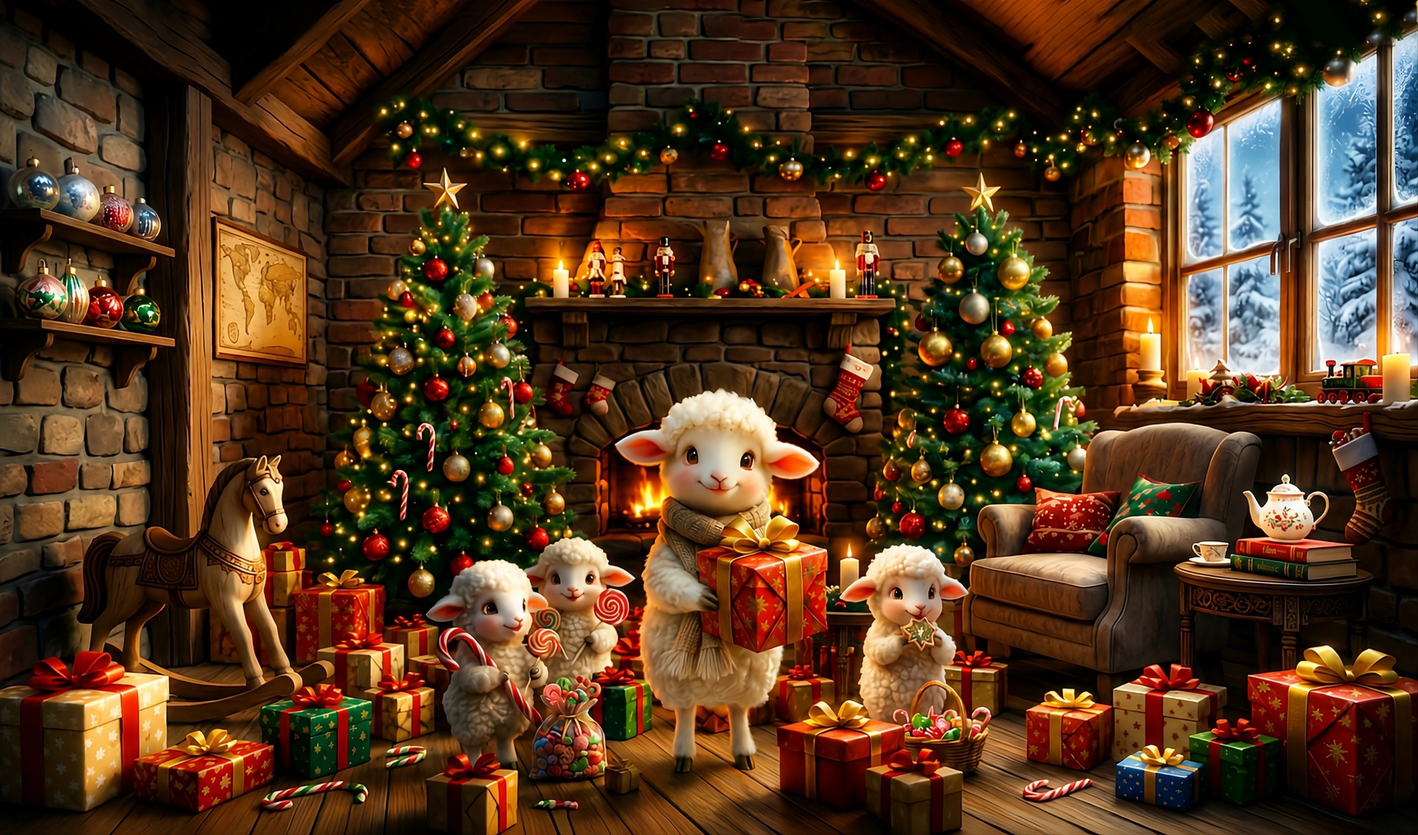
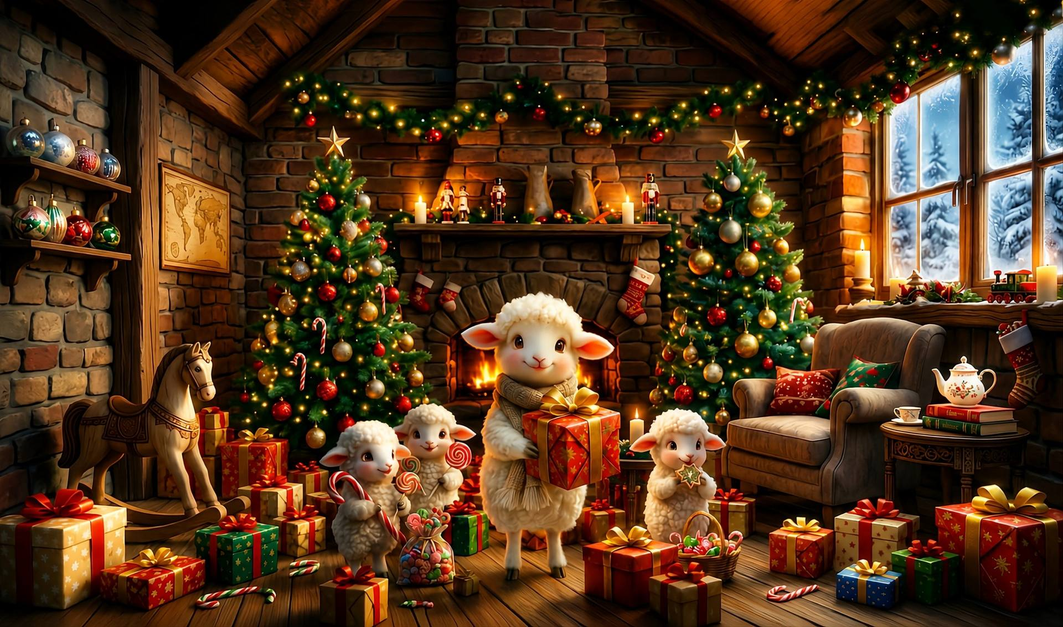
task135: производительность витрины + починка прелоадера на медленной сети — фон блока и hero пережаты в webp (1,9МБ+623КБ+внешний KAM_023 719КБ → 119+239+85КБ, −86% главных ассетов), мок «Тубы» локализован (public/brand); SmartImage.startVisible + fetchPriority=high + preload для LCP-hero (рисунок 

diff --git a/src/components/admin/SettingsForm.tsx b/src/components/admin/SettingsForm.tsx
@@ -619,7 +619,7 @@ export function SettingsForm({ initial }: Props) {
             <div className="h-24 w-40 shrink-0 overflow-hidden rounded-lg border border-[var(--color-border)] bg-[var(--color-bg-soft)]">
               {/* eslint-disable-next-line @next/next/no-img-element */}
               <img
-                src={form.hero_image || "/hero-bg.jpg"}
+                src={form.hero_image || "/hero-bg.webp"}
                 alt="Текущий фон hero"
                 className="h-full w-full object-cover"
               />
@@ -649,7 +649,7 @@ export function SettingsForm({ initial }: Props) {
                 placeholder="/uploads/hero/... или https://..."
               />
               <p className="text-xs text-[var(--color-muted)]">
-                Пусто = картинка по умолчанию (/hero-bg.jpg). Картинка сжимается перед загрузкой автоматически.
+                Пусто = картинка по умолчанию (/hero-bg.webp). Картинка сжимается перед загрузкой автоматически.
                 На сайте появится после обновления главной страницы (F5) — пересборка сайта не нужна.
               </p>
             </div>

diff --git a/src/components/ui/SmartImg.tsx b/src/components/ui/SmartImg.tsx
@@ -46,15 +46,20 @@ type SmartImageProps = Omit<ImageProps, "onLoad" | "onError"> & {
   /** Доп. классы на скелетоне (например скругление) */
   skeletonClassName?: string;
   onLoad?: () => void;
+  /** LCP-картинка: без скелетона и с opacity-100 уже в SSR-разметке —
+   * браузер рисует её, как только пришли байты, не дожидаясь
+   * гидратации (иначе на мобиле LCP откладывается на секунды). */
+  startVisible?: boolean;
 };
 
 export function SmartImage({
   skeletonClassName = "",
   onLoad,
   className,
+  startVisible = false,
   ...rest
 }: SmartImageProps) {
-  const [loaded, setLoaded] = useState(false);
+  const [loaded, setLoaded] = useState(startVisible);
   const [failed, setFailed] = useState(false);
   const imgRef = useRef<HTMLImageElement | null>(null);
   /* Task 116: текущий src может заменяться на сиблинга с другим

diff --git a/src/lib/mock-data.ts b/src/lib/mock-data.ts
@@ -213,7 +213,7 @@ export const mockCategories: Category[] = [
   { slug: "karton",    name: "Картон",      imageUrl: wpu("LA_035.png") },
   { slug: "meshochki", name: "Мешочки",     imageUrl: wpu("KA_101.png") },
   { slug: "tekstil",   name: "Текстиль",    imageUrl: wpu("KA_020.png") },
-  { slug: "tuby",      name: "Тубы",        imageUrl: wpu("KAM_023.png") },
+  { slug: "tuby",      name: "Тубы",        imageUrl: "/brand/tuby.webp" },
 ];
 
 /* -------------------------------------------------- */

diff --git a/src/lib/settings.ts b/src/lib/settings.ts
@@ -44,7 +44,7 @@ export interface ShopFrontSettings {
    компонентами — Hero подтягивает свежий конфиг на статическом сайте). */
 
 export const DEFAULT_FRONT_SETTINGS: ShopFrontSettings = {
-  hero_image: "/hero-bg.jpg",
+  hero_image: "/hero-bg.webp",
   hero_slider_enabled: false,
   hero_slides: [],
   product_card_template: "new",

diff --git a/src/components/home/Hero.tsx b/src/components/home/Hero.tsx
@@ -130,6 +130,8 @@ export function Hero({ image, slides, slider, snow }: HeroProps) {
             alt=""
             fill
             priority={i === 0}
+            fetchPriority={i === 0 ? "high" : "auto"}
+            startVisible={i === 0}
             sizes="100vw"
             className="object-cover"
             skeletonClassName="bg-[#1d2430]"

diff --git a/src/components/home/ProcessSteps.tsx b/src/components/home/ProcessSteps.tsx
@@ -138,7 +138,7 @@ export function ProcessSteps() {
         className="absolute inset-x-0 -top-20 -bottom-20 will-change-transform"
       >
         <SmartImage
-          src="/uploads/process-bg.png"
+          src="/brand/process-bg.webp"
           alt=""
           fill
           sizes="100vw"

diff --git a/backend/src/SystemFiles.php b/backend/src/SystemFiles.php
@@ -25,7 +25,7 @@ class SystemFiles
         'ico-step1.svg',             // ProcessSteps.tsx — блок «Как мы работаем»
         'ico-step2.svg',
         'ico-step3.svg',
-        'process-bg.png',            // ProcessSteps.tsx — фон блока
+        'process-bg.png',            // ProcessSteps.tsx — фон блока (легаси; актуальный — /brand/process-bg.webp)
     ];
 
     /** Файл витрины, на который ссылается код (rel — путь внутри uploads/) */

diff --git a/worklog.md b/worklog.md
@@ -2102,3 +2102,18 @@ Stage Summary:
 - В карточке каждого визита видно, ПОЧЕМУ он признан ботом — какой признак сработал. Владелец решает: блокировать IP или разбираться. Защитные лимиты и блок-лист из Task 133 работают как раньше.
 
 ПУБЛИКАЦИЯ РЕЛИЗА: ПУШ master УСПЕШЕН 7a19c4e..6dfd3d8. СБОРКА MODE=both → v2026.11.03-0212: lakomka-deploy-static.zip 110 МБ, lakomka-update-2026.11.03-0212.zip 15 995 753 б (sha256 ab5f819f3844f46fa474fd311e29deb94e885f26112e6f86f780ab36ea962536); в пакете: VisitGuard.php с botScore, миграция 007, AdminAnalyticsController, чанки с «Подозрением» и блоком отпечатка, трекер с env/sig. Досборка MODE=media → lakomka-media-2026.11.03-0212.zip 94 МБ — ЛОКАЛЬНО для регресса, в релиз НЕ публиковался (медиа не менялись, у сайтов актуален 0754). E2E task133 24/24 на стенде :8090 — headless-браузер в модалке визита показал «webdriver: да». gh-release.sh: тег v2026.11.03-0212 создан (updates/…zip в дереве), релиз id=432204546 с заметками release/notes-2026.11.03-0212.md. ВЕРИФИКАЦИЯ канала /update: ranged GET с -L → HTTP 206, 1024 б; полное скачивание → 15 995 753 б = локальному; sha256 байт-в-байт ab5f819f…2536; releases/latest → v2026.11.03-0212, draft=false, prerelease=false. Медиа-архив не выпускался. Владельцу: применить обновление (/update → «Проверить обновления (ГИТ)» → применить) — приедет бот-детект v2. После обновления ПРОВЕРИТЬ ГЛАВНОЕ: попросить DeepSeek снова зайти на fixme.org.ru → в «Аналитике» его визит должен прийти ботом с пометкой «(отпечаток)», в карточке визита — строка отпечатка с webdriver: да; свои визиты из обычного браузера остаются «Человек».
+
+---
+Task ID: 135
+Agent: main (Z.ai)
+Task: «так же у нас сломался прелоадер со смешными фразами» + Lighthouse: мобайл LCP 16,7 c / SI 9,0 c, сеть 6103 КиБ (process-bg.png 1889 КиБ, hero-bg.jpg 623 КиБ, KAM_023.png 719 КиБ с lakomkakhv.ru), кэш статики без TTL, «прими меры на производительность».
+
+Work Log:
+- ДИАГНОЗ ПРЕЛОАДЕРА: код RoutePreloader цел (битые «aref]»/«supports-eight» в выводе инструментов — артефакт отображения, байты файлов корректны: a[href], supports-[height]). Воспроизведение Playwright (Slow 4G 1,6 Мбит/с, RTT 150мс, CPU×4, мобайл-вьюпорт) на статическом экспорте: клик по ссылке при ещё грузящихся тяжёлых картинках → RSC-запрос навигации (/catalog/index.txt, 776 КиБ text/plain без gzip) застревает за 2,5 МБ изображений → Next срывается на ПОЛНУЮ перезагрузку → контекст умирает, прелоадер мигает и пропадает, страница грузится заново. На быстрой сети всё работает — поэтому в dev дефект не виден. Лечение = разгрузка страницы (см. ниже): после неё тот же тест даёт оверлей VISIBLE все 8 с навигации с ротацией фраз, завершение клиентской навигацией, 0 полных перезагрузок.
+- КАРТИНКИ: process-bg.png 1 933 451 Б → public/brand/process-bg.webp 121 658 Б (−94%, q82); hero-bg.jpg 2560×1509 637 085 Б → пережат на месте (то же имя, DB-безопасно) до 1920w 341 944 Б (−46%) + public/hero-bg.webp 245 092 Б (−62%) как новый дефолт (settings.ts, превью/подпись в SettingsForm); мок «Тубы» KAM_023.png 736 177 Б (внешний lakomkakhv.ru) → public/brand/tuby.webp 84 640 Б (−88%, альфа сохранена) — грузился на главной для категорий без товаров. Легаси /uploads/process-bg.png удалён из репо (на проде копия остаётся, обновления не удаляют файлы; SystemFiles::REFERRED хранит защиту). Итог по главным ассетам: 3 306 713 → 451 390 Б (−2,72 МиБ, −86%).
+- LCP: SmartImage новый проп startVisible (LCP-картинка без скелетона, opacity-100 уже в SSR-разметке — браузер рисует по приходу байтов, не дожидаясь гидратации); Hero: startVisible+fetchPriority=high для первого слайда; в экспорте проверены <link rel=preload as=image href="/hero-bg.webp"> и fetchPriority="high" на <img>.
+- КЭШ (.htaccess): Lighthouse «период хранения кеша» — на проде mod_expires РАБОТАЕТ, но .js отдаётся как text/javascript (правило было только для application/javascript) → чанки без TTL; шрифты font/otf|ttf|woff|woff2 (+application/*) — правила отсутствовали. Добавлены: text/javascript 1 год, шрифты 1 мес, svg/ico/gif 1 мес; страховка mod_headers (FilesMatch: css|js 1 год immutable, изображения/видео/шрифты 1 мес, html no-cache must-revalidate — защита от эвристики при отсутствии mod_expires); DEFLATE + text/plain — RSC *.txt (776 КиБ → ~120-150 КиБ на проде).
+- СЕКРЕТ ПЕСОЧНИЦЫ (не в код): config.local.php был с random_bytes() на каждый запрос → JWT-секрет плавал → «Token invalid» в тестах; перегенерирован с литеральными значениями.
+- ТЕСТЫ: регресс 134:52, 133:71, 132:46, 131:43, 130:50, 121:72, 122:54, 120:27, 118:35, 117:46, 116:38, 112:21(+110:10) — все зелёные; security-audit-auth чист; tsc 0. E2E-браузер: статика :8090 — hero webp в DOM, /brand/*.webp на месте, ошибки консоли 0; троттлинг-тест прелоадера — VISIBLE → навигация → скрытие.
+Stage Summary:
+- Прелоадер со смешными фразами починен разгрузкой страниц: на медленной сети навигация больше не срывается в полную перезагрузку — оверлей с фразами живёт до конца клиентского перехода. Главная полегчала на ~2,7 МиБ (−86% по главным ассетам): фон блока «Как мы работаем» и hero пережаты в webp, внешний PNG «Туб» заменён локальным. LCP-картинка рисуется без ожидания гидратации (startVisible + fetchPriority=high + preload). Кэш: JS-чанки — 1 год (text/javascript!), шрифты/медиа — месяц, HTML — всегда свежий; RSC-полезные нагрузки сжаты DEFLATE. Ожидаемый эффект на мобиле: LCP с 16,7 с до ~3-4 с, повторные визиты быстрее на ~0,5 МиБ кэша. Владельцу: применить обновление на проде (Настройки → Обновление или /update).
